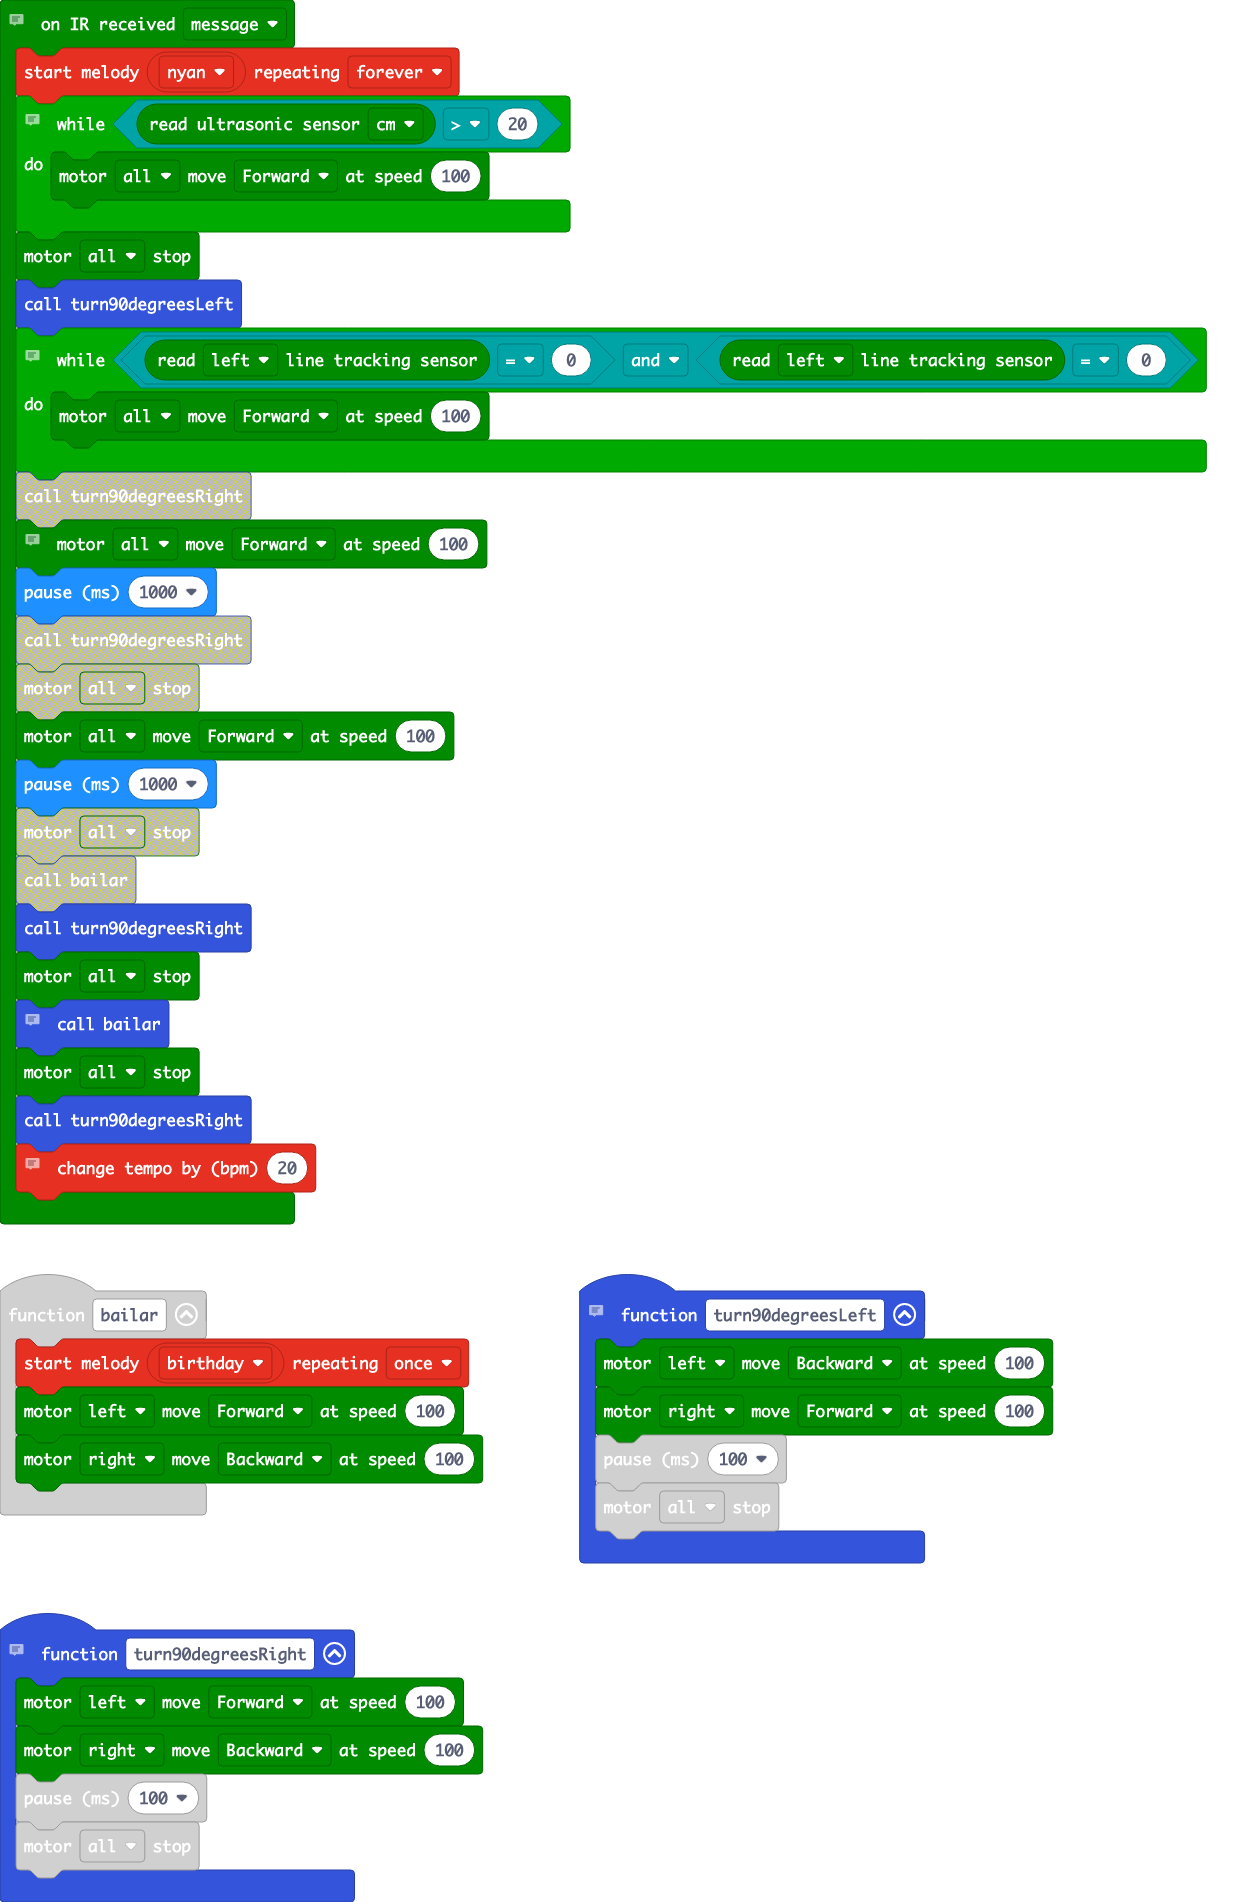
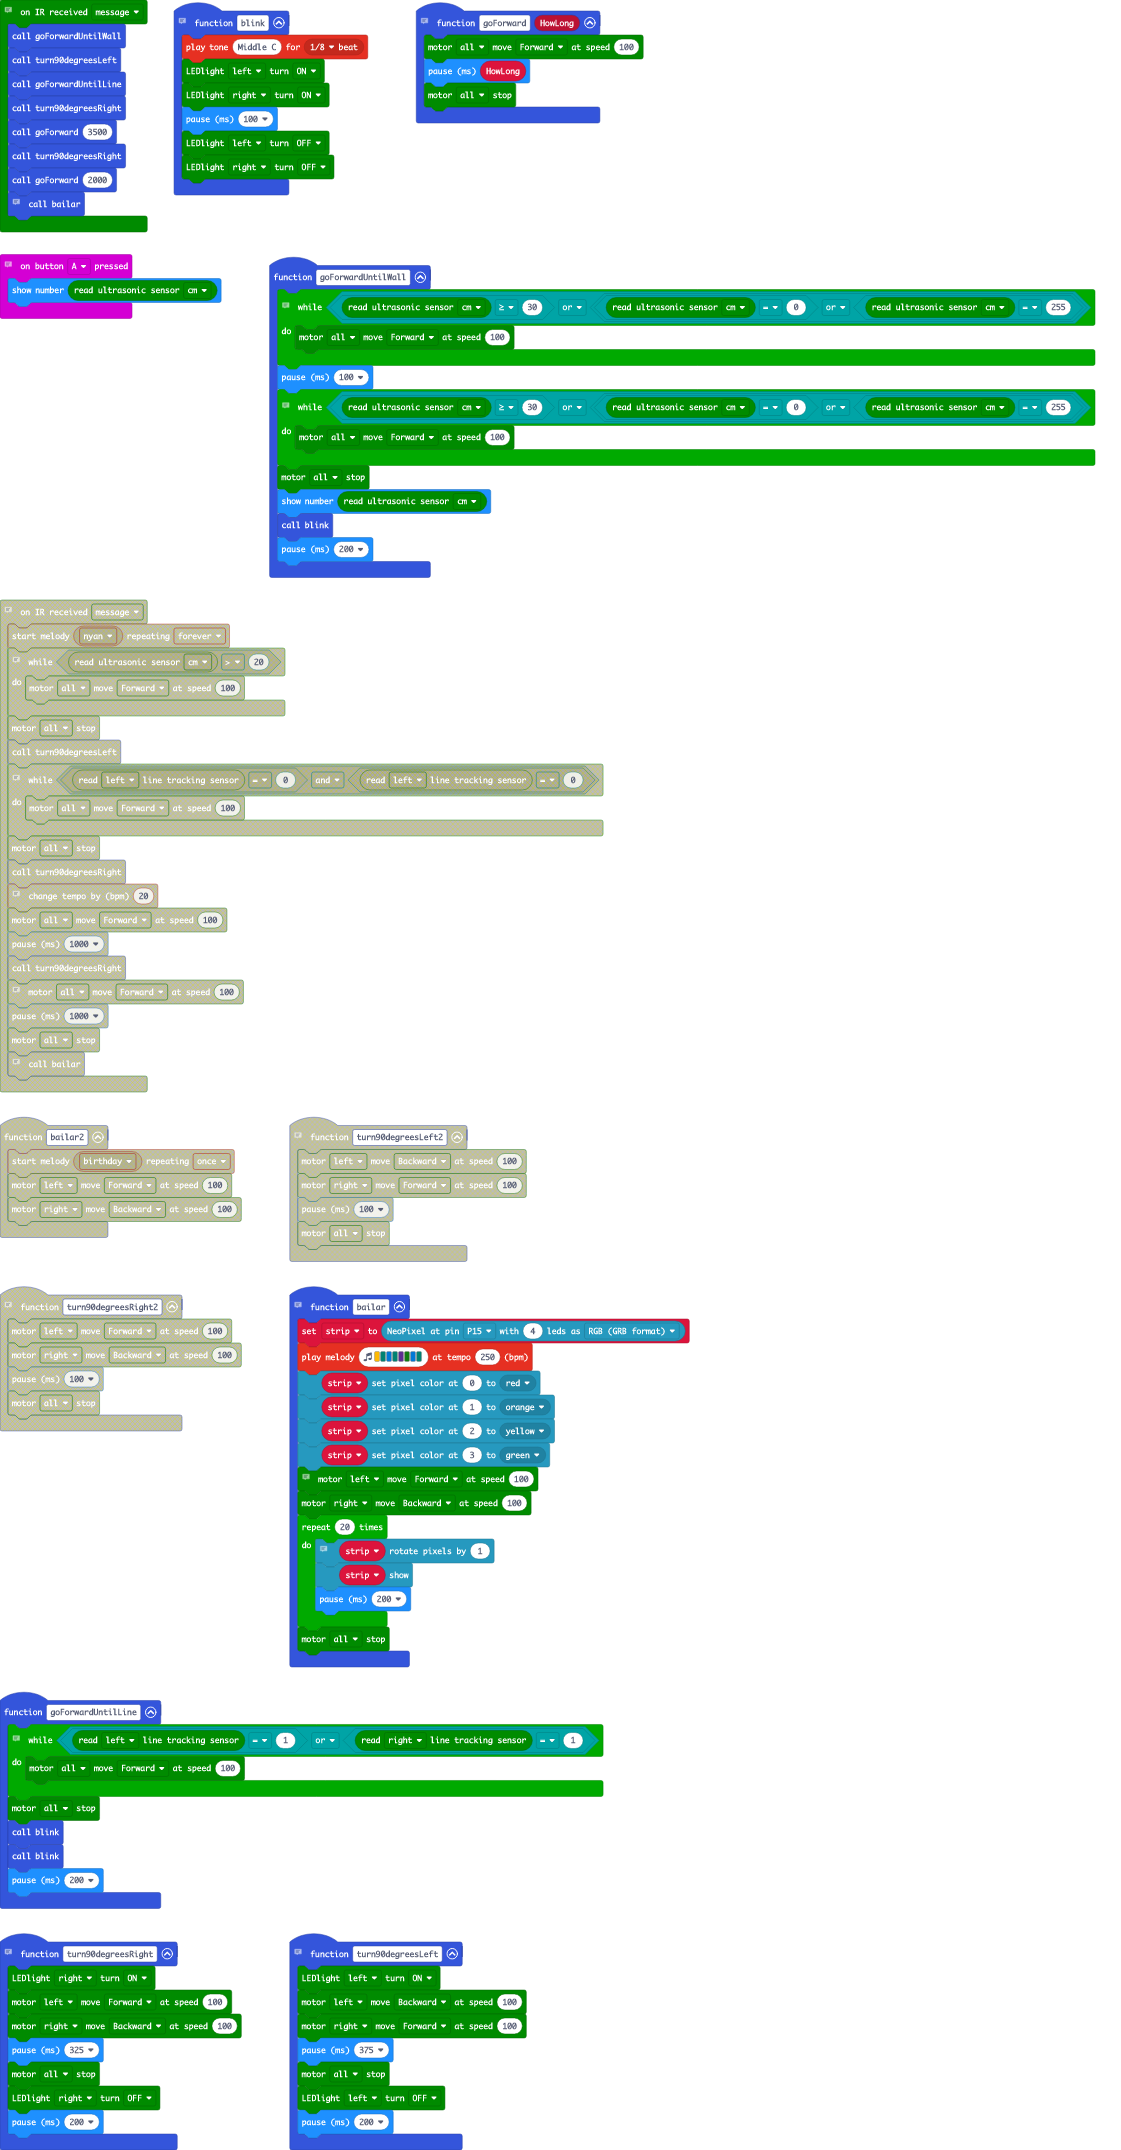
Changed all the movements to functions; Working versions

diff --git a/main.ts b/main.ts
@@ -1,48 +1,98 @@
+let strip: neopixel.Strip = null
 // Left motor goes forward and right goes backward to turn right
 function turn90degreesRight () {
+    maqueen.writeLED(maqueen.LED.LEDRight, maqueen.LEDswitch.turnOn)
     maqueen.motorRun(maqueen.Motors.M1, maqueen.Dir.CW, 100)
     maqueen.motorRun(maqueen.Motors.M2, maqueen.Dir.CCW, 100)
-    basic.pause(100)
+    basic.pause(325)
     maqueen.motorStop(maqueen.Motors.All)
+    maqueen.writeLED(maqueen.LED.LEDRight, maqueen.LEDswitch.turnOff)
+    basic.pause(200)
+}
+// Move forward for a particular time in ms
+function goForward (HowLong: number) {
+    maqueen.motorRun(maqueen.Motors.All, maqueen.Dir.CW, 100)
+    basic.pause(HowLong)
+    maqueen.motorStop(maqueen.Motors.All)
+}
+// Test the ultrasonic sensor
+input.onButtonPressed(Button.A, function () {
+    basic.showNumber(maqueen.Ultrasonic(PingUnit.Centimeters))
+})
+function goForwardUntilWall () {
+    // Move forward until the ultrasonic reads less than 30 (ignore values of 0 and 255)
+    while (maqueen.Ultrasonic(PingUnit.Centimeters) >= 30 || (maqueen.Ultrasonic(PingUnit.Centimeters) == 0 || maqueen.Ultrasonic(PingUnit.Centimeters) == 255)) {
+        maqueen.motorRun(maqueen.Motors.All, maqueen.Dir.CW, 100)
+    }
+    basic.pause(100)
+    // Pause and do it again just to ignore noise or incorrect readings.
+    while (maqueen.Ultrasonic(PingUnit.Centimeters) >= 30 || (maqueen.Ultrasonic(PingUnit.Centimeters) == 0 || maqueen.Ultrasonic(PingUnit.Centimeters) == 255)) {
+        maqueen.motorRun(maqueen.Motors.All, maqueen.Dir.CW, 100)
+    }
+    maqueen.motorStop(maqueen.Motors.All)
+    basic.showNumber(maqueen.Ultrasonic(PingUnit.Centimeters))
+    blink()
+    basic.pause(200)
+}
+// Beep and blink the LEDs
+function blink () {
+    music.playTone(262, music.beat(BeatFraction.Eighth))
+    maqueen.writeLED(maqueen.LED.LEDLeft, maqueen.LEDswitch.turnOn)
+    maqueen.writeLED(maqueen.LED.LEDRight, maqueen.LEDswitch.turnOn)
+    basic.pause(100)
+    maqueen.writeLED(maqueen.LED.LEDLeft, maqueen.LEDswitch.turnOff)
+    maqueen.writeLED(maqueen.LED.LEDRight, maqueen.LEDswitch.turnOff)
 }
 // Left motor goes back and right goes forward to turn left
 function turn90degreesLeft () {
+    maqueen.writeLED(maqueen.LED.LEDLeft, maqueen.LEDswitch.turnOn)
     maqueen.motorRun(maqueen.Motors.M1, maqueen.Dir.CCW, 100)
     maqueen.motorRun(maqueen.Motors.M2, maqueen.Dir.CW, 100)
-    basic.pause(100)
+    basic.pause(375)
     maqueen.motorStop(maqueen.Motors.All)
+    maqueen.writeLED(maqueen.LED.LEDLeft, maqueen.LEDswitch.turnOff)
+    basic.pause(200)
 }
-// When a remote control button is pressed. 
+function goForwardUntilLine () {
+    // Move forward until the line is reached
+    while (maqueen.readPatrol(maqueen.Patrol.PatrolLeft) == 1 || maqueen.readPatrol(maqueen.Patrol.PatrolRight) == 1) {
+        maqueen.motorRun(maqueen.Motors.All, maqueen.Dir.CW, 100)
+    }
+    maqueen.motorStop(maqueen.Motors.All)
+    blink()
+    blink()
+    basic.pause(200)
+}
+// When a remote control button is pressed.
 // 
 // You could change this to Button A pressed if you don't have a working IR
 maqueen.IR_callbackUser(function (message) {
-    music.startMelody(music.builtInMelody(Melodies.Nyan), MelodyOptions.Forever)
-    // Move forward until you reach the first obstacle 
-    while (maqueen.Ultrasonic(PingUnit.Centimeters) > 20) {
-        maqueen.motorRun(maqueen.Motors.All, maqueen.Dir.CW, 100)
-    }
-    maqueen.motorStop(maqueen.Motors.All)
+    goForwardUntilWall()
     turn90degreesLeft()
-    // Move forward until the line is reached
-    while (maqueen.readPatrol(maqueen.Patrol.PatrolLeft) == 0 && maqueen.readPatrol(maqueen.Patrol.PatrolLeft) == 0) {
-        maqueen.motorRun(maqueen.Motors.All, maqueen.Dir.CW, 100)
-    }
-    maqueen.motorStop(maqueen.Motors.All)
+    goForwardUntilLine()
     turn90degreesRight()
-    // Speed up the music and climb the ramp
-    music.changeTempoBy(20)
-    maqueen.motorRun(maqueen.Motors.All, maqueen.Dir.CW, 100)
-    basic.pause(1000)
+    goForward(3500)
     turn90degreesRight()
-    // Go forward to the end of the course
-    maqueen.motorRun(maqueen.Motors.All, maqueen.Dir.CW, 100)
-    basic.pause(1000)
-    maqueen.motorStop(maqueen.Motors.All)
+    goForward(2000)
     // Celebrate
     bailar()
 })
+// Celebrate!
 function bailar () {
-    music.startMelody(music.builtInMelody(Melodies.Birthday), MelodyOptions.Once)
+    strip = neopixel.create(DigitalPin.P15, 4, NeoPixelMode.RGB)
+    music.playMelody("A F E F D G E F ", 250)
+    strip.setPixelColor(0, neopixel.colors(NeoPixelColors.Red))
+    strip.setPixelColor(1, neopixel.colors(NeoPixelColors.Orange))
+    strip.setPixelColor(2, neopixel.colors(NeoPixelColors.Yellow))
+    strip.setPixelColor(3, neopixel.colors(NeoPixelColors.Green))
+    // Spin right
     maqueen.motorRun(maqueen.Motors.M1, maqueen.Dir.CW, 100)
     maqueen.motorRun(maqueen.Motors.M2, maqueen.Dir.CCW, 100)
+    for (let index = 0; index < 20; index++) {
+        // Rotate the lights around 20 times
+        strip.rotate(1)
+        strip.show()
+        basic.pause(200)
+    }
+    maqueen.motorStop(maqueen.Motors.All)
 }

diff --git a/main.py b/main.py
@@ -1,0 +1,45 @@
+# Left motor goes forward and right goes backward to turn right
+def turn90degreesRight():
+    maqueen.motor_run(maqueen.Motors.M1, maqueen.Dir.CW, 100)
+    maqueen.motor_run(maqueen.Motors.M2, maqueen.Dir.CCW, 100)
+    basic.pause(100)
+    maqueen.motor_stop(maqueen.Motors.ALL)
+# Left motor goes back and right goes forward to turn left
+def turn90degreesLeft():
+    maqueen.motor_run(maqueen.Motors.M1, maqueen.Dir.CCW, 100)
+    maqueen.motor_run(maqueen.Motors.M2, maqueen.Dir.CW, 100)
+    basic.pause(100)
+    maqueen.motor_stop(maqueen.Motors.ALL)
+# When a remote control button is pressed. 
+# 
+# You could change this to Button A pressed if you don't have a working IR
+
+def on_ir_callbackuser(message):
+    music.start_melody(music.built_in_melody(Melodies.NYAN), MelodyOptions.FOREVER)
+    # Move forward until you reach the first obstacle 
+    while maqueen.ultrasonic(PingUnit.CENTIMETERS) > 20:
+        maqueen.motor_run(maqueen.Motors.ALL, maqueen.Dir.CW, 100)
+    maqueen.motor_stop(maqueen.Motors.ALL)
+    turn90degreesLeft()
+    # Move forward until the line is reached
+    while maqueen.read_patrol(maqueen.Patrol.PATROL_LEFT) == 0 and maqueen.read_patrol(maqueen.Patrol.PATROL_RIGHT) == 0:
+        maqueen.motor_run(maqueen.Motors.ALL, maqueen.Dir.CW, 100)
+    maqueen.motor_stop(maqueen.Motors.ALL)
+    turn90degreesRight()
+    # Speed up the music and climb the ramp
+    music.change_tempo_by(20)
+    maqueen.motor_run(maqueen.Motors.ALL, maqueen.Dir.CW, 100)
+    basic.pause(1000)
+    turn90degreesRight()
+    # Go forward to the end of the course
+    maqueen.motor_run(maqueen.Motors.ALL, maqueen.Dir.CW, 100)
+    basic.pause(1000)
+    maqueen.motor_stop(maqueen.Motors.ALL)
+    # Celebrate
+    bailar()
+maqueen.IR_callbackUser(on_ir_callbackuser)
+
+def bailar():
+    music.start_melody(music.built_in_melody(Melodies.BIRTHDAY), MelodyOptions.ONCE)
+    maqueen.motor_run(maqueen.Motors.M1, maqueen.Dir.CW, 100)
+    maqueen.motor_run(maqueen.Motors.M2, maqueen.Dir.CCW, 100)
